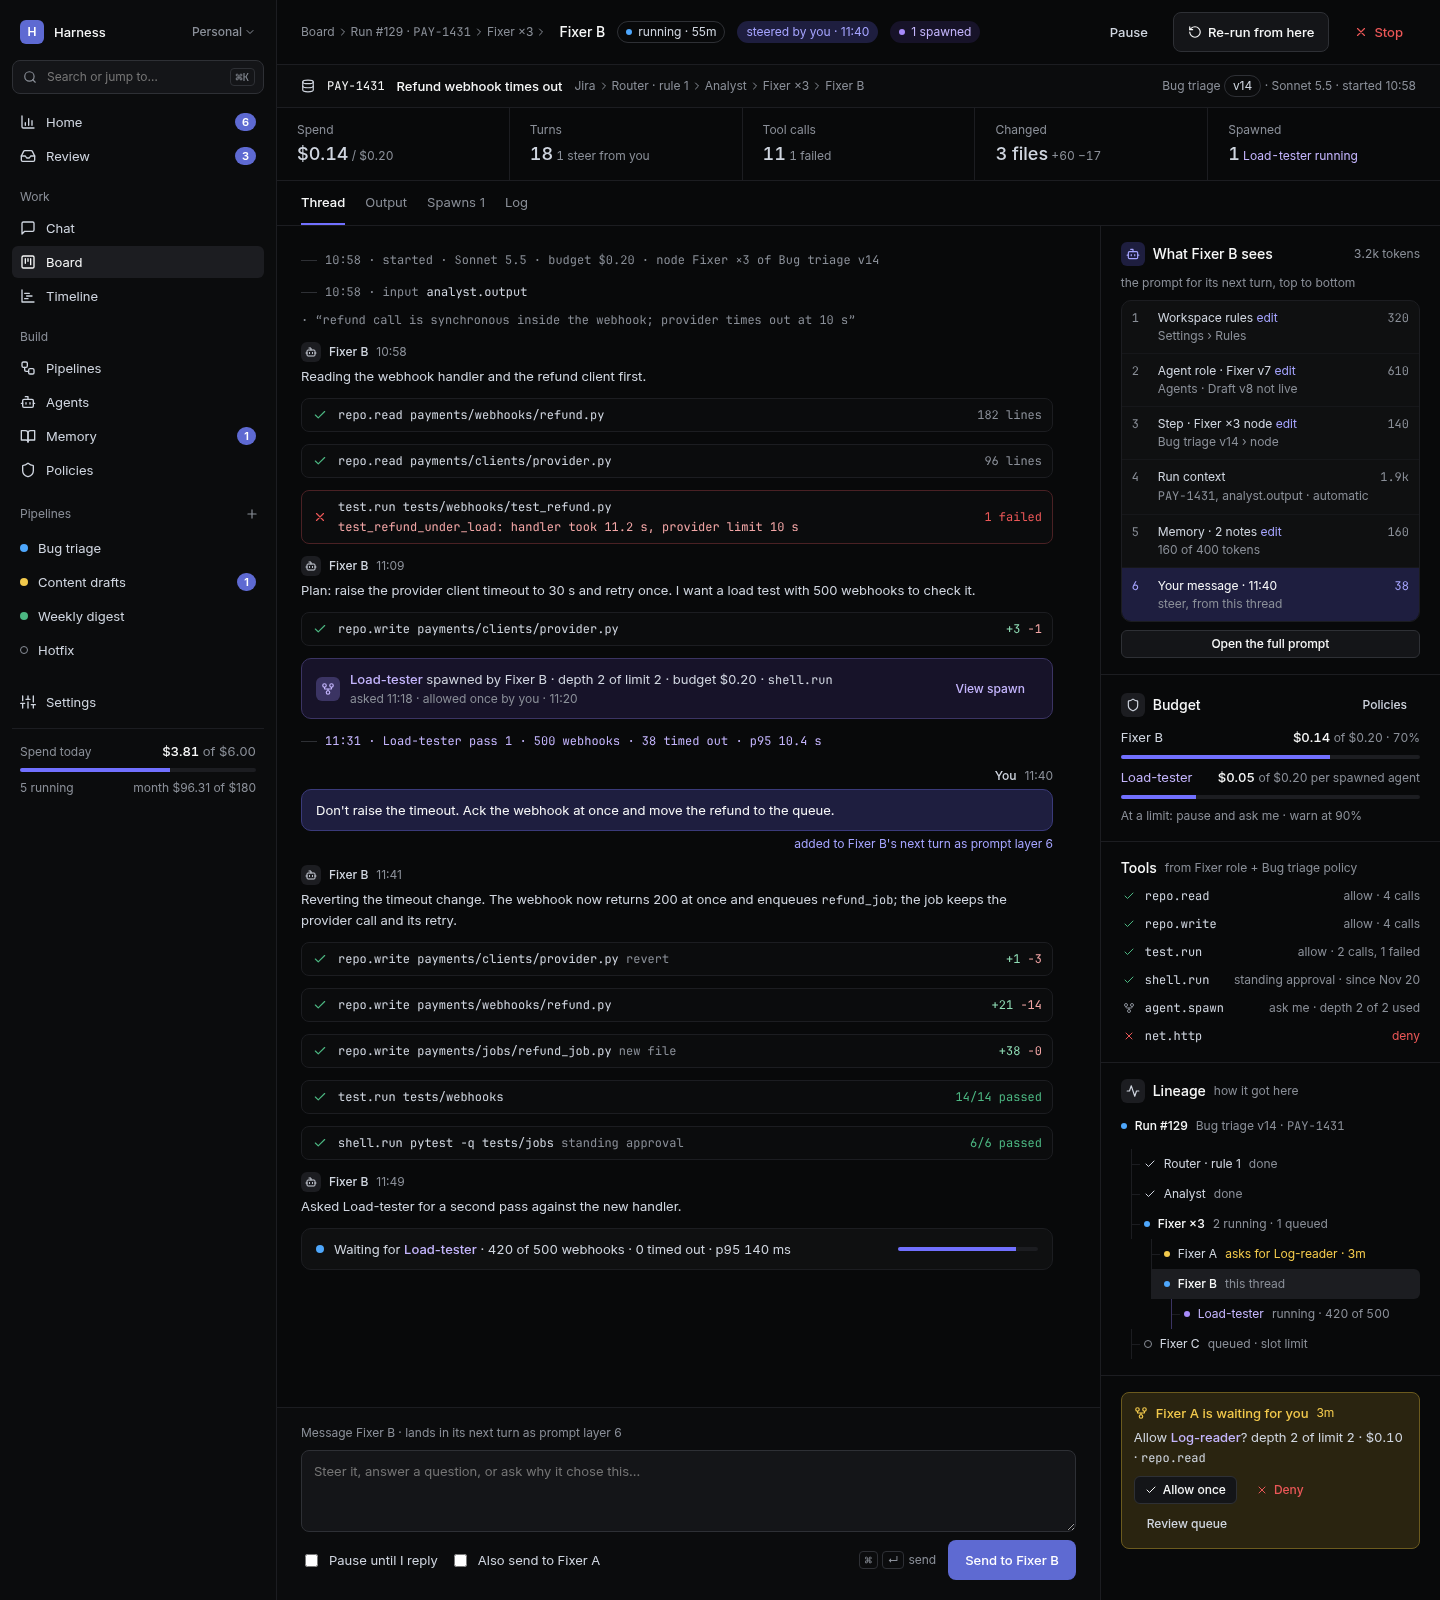
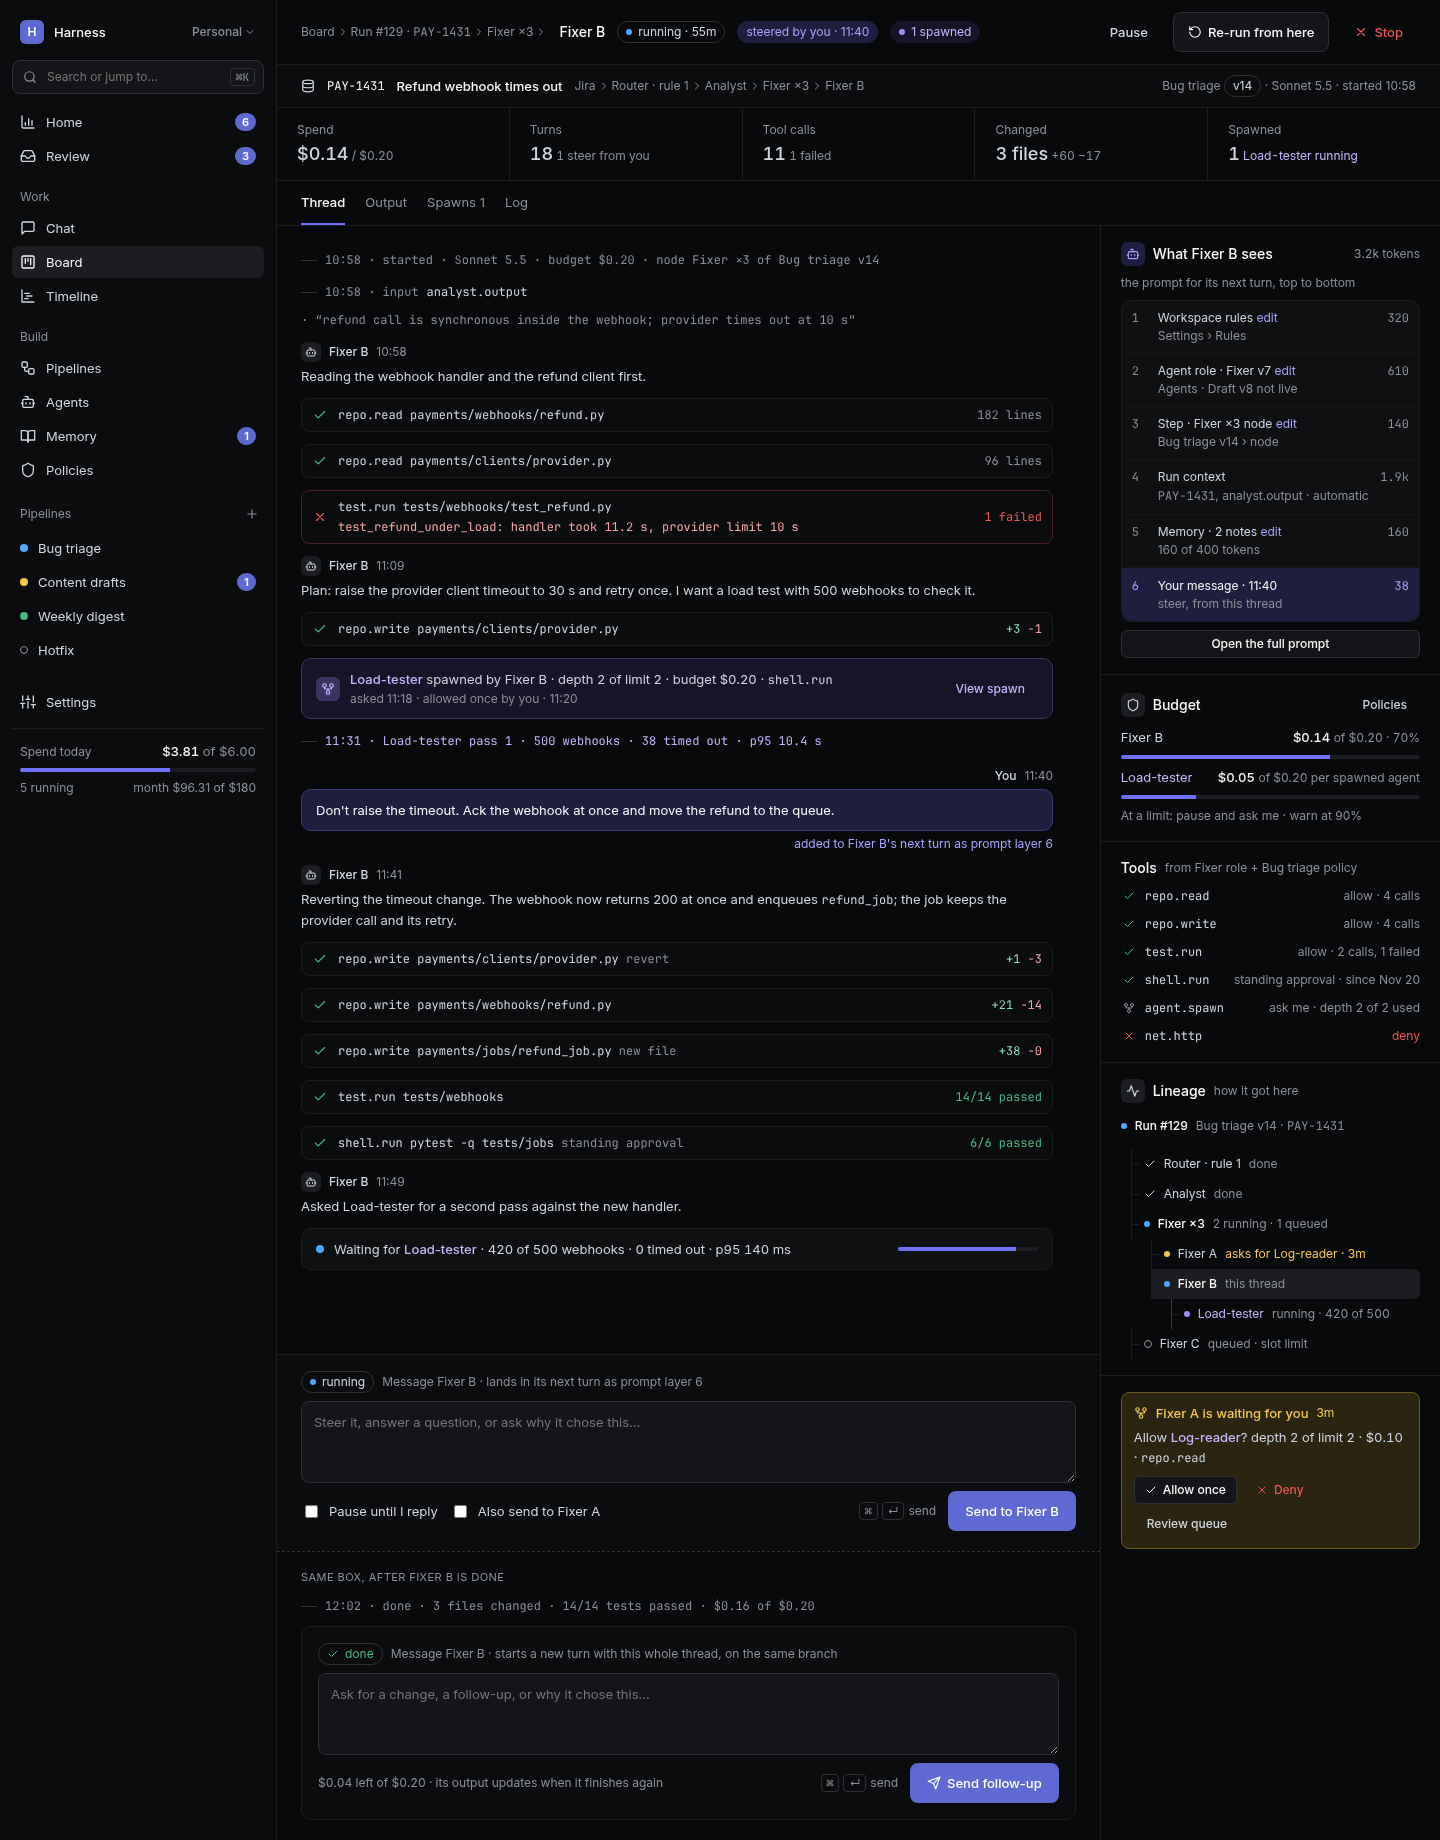
Designer: I updated the task-thread mockup so you can still send instructions afte
Run #10 · fix render

diff --git a/design/screens/task-thread.html b/design/screens/task-thread.html
@@ -3,7 +3,7 @@
 <head>
 <meta charset="utf-8">
 <meta name="viewport" content="width=1440">
-<meta name="design:size" content="1440x1600">
+<meta name="design:size" content="1440x1840">
 <title>Task thread</title>
 <style>
 /* Design tokens (keep in sync with design/tokens.css). */
@@ -291,7 +291,7 @@ a:focus-visible,input:focus-visible,textarea:focus-visible,button:focus-visible{
 </head>
 <body>
 <div id="dc-root"
-><div style="min-height: 1600px; display: flex; flex-wrap: wrap; background: var(--bg); font-family: var(--font-sans); font-size: 13px; line-height: 20px; color: var(--text-secondary);"
+><div style="min-height: 1840px; display: flex; flex-wrap: wrap; background: var(--bg); font-family: var(--font-sans); font-size: 13px; line-height: 20px; color: var(--text-secondary);"
 ><div style="flex: 0 0 276px; min-width: 0; max-width: 100%; background: var(--bg-sidebar); border-right: 1px solid var(--line);"
 ><nav class="gr-nav" aria-label="Main" style="width: 100%; min-height: 800px; gap: 2px; font-family: var(--font-sans); font-size: 13px; line-height: 20px; color: var(--text-secondary);"
 ><button type="button" style="display: flex; align-items: center; gap: 10px; height: 40px; padding: 0px 8px; border: 0px; border-radius: 6px; background: transparent; color: var(--text); font: inherit; font-weight: 500; cursor: pointer; text-align: left;"
@@ -770,7 +770,12 @@ a:focus-visible,input:focus-visible,textarea:focus-visible,button:focus-visible{
 ></div
 ></div
 ><form style="margin: 0px; padding: 16px 24px 20px; border-top: 1px solid var(--line); display: flex; flex-direction: column; gap: 8px; background: var(--bg-sidebar);"
+><div class="phead"
+><span class="gr-badge"
+><span class="gr-dot gr-dot--running gr-dot--sm" aria-hidden="true"
+></span>running</span
 ><label for="task-msg" class="lbl">Message Fixer B · lands in its next turn as prompt layer 6</label
+></div
 ><textarea id="task-msg" rows="3" placeholder="Steer it, answer a question, or ask why it chose this…" style="resize: vertical; padding: 10px 12px; border: 1px solid var(--line-strong); border-radius: var(--radius-lg); background: var(--surface-raised); color: var(--text); font: inherit;"
 ></textarea
 ><div style="display: flex; flex-wrap: wrap; align-items: center; gap: 8px 12px;"
@@ -786,6 +791,37 @@ a:focus-visible,input:focus-visible,textarea:focus-visible,button:focus-visible{
 ><button type="button" class="gr-btn gr-btn--primary">Send to Fixer B</button
 ></div
 ></form
+><div aria-label="Same composer once Fixer B is done" style="padding: 16px 24px 20px; border-top: 1px dashed var(--line-strong); display: flex; flex-direction: column; gap: 10px;"
+><span class="lbl" style="text-transform: uppercase; letter-spacing: 0.04em; font-size: 11px;">Same box, after Fixer B is done</span
+><div class="ev">12:02 · done · 3 files changed · 14/14 tests passed · $0.16 of $0.20</div
+><form style="margin: 0px; padding: 16px; border: 1px solid var(--line); border-radius: var(--radius-xl); display: flex; flex-direction: column; gap: 8px; background: var(--bg-sidebar);"
+><div class="phead"
+><span class="gr-badge gr-badge--success"
+><svg width="12" height="12" viewBox="0 0 24 24" fill="none" stroke="currentColor" stroke-width="2" stroke-linecap="round" stroke-linejoin="round" aria-hidden="true" class="gr-icon"
+><path d="M20 6 9 17l-5-5"
+></path
+></svg>done</span
+><label for="task-msg-done" class="lbl">Message Fixer B · starts a new turn with this whole thread, on the same branch</label
+></div
+><textarea id="task-msg-done" rows="3" placeholder="Ask for a change, a follow-up, or why it chose this…" style="resize: vertical; padding: 10px 12px; border: 1px solid var(--line-strong); border-radius: var(--radius-lg); background: var(--surface-raised); color: var(--text); font: inherit;"
+></textarea
+><div style="display: flex; flex-wrap: wrap; align-items: center; gap: 8px 12px;"
+><span class="lbl num">$0.04 left of $0.20 · its output updates when it finishes again</span
+><div style="flex: 1 1 0%;"
+></div
+><span class="lbl" style="display: inline-flex; align-items: center; gap: 4px;"
+><kbd class="gr-kbd">⌘</kbd
+><kbd class="gr-kbd">↵</kbd> send</span
+><button type="button" class="gr-btn gr-btn--primary"
+><svg width="14" height="14" viewBox="0 0 24 24" fill="none" stroke="currentColor" stroke-width="2" stroke-linecap="round" stroke-linejoin="round" aria-hidden="true" class="gr-icon"
+><path d="m22 2-7 20-4-9-9-4Z"
+></path
+><path d="M22 2 11 13"
+></path
+></svg>Send follow-up</button
+></div
+></form
+></div
 ></section
 ><aside aria-label="What Fixer B sees" style="flex: 1 1 340px; min-width: 0px; box-sizing: border-box; border-left: 1px solid var(--line); display: flex; flex-direction: column;"
 ><div class="sec" style="border-top: 0px;"
